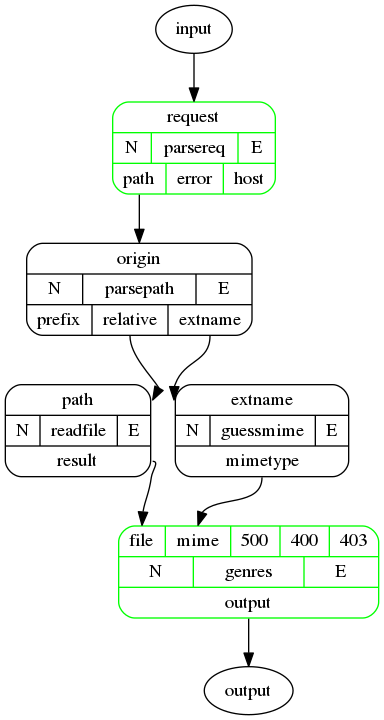
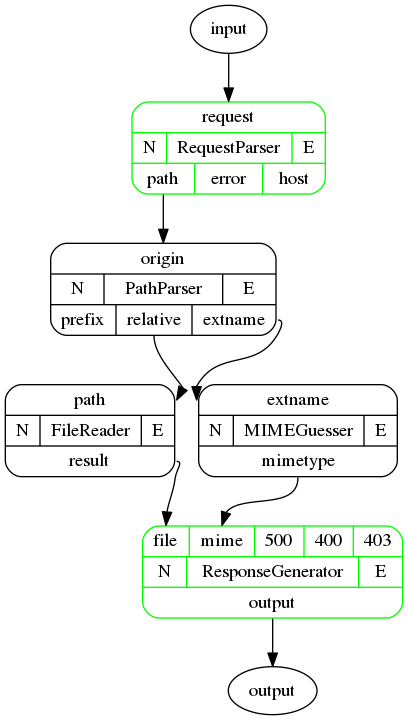
Update the fileserver explaination

diff --git a/src/fileserver/environment/server_files/explained_fileserver_pss.html b/src/fileserver/environment/server_files/explained_fileserver_pss.html
@@ -5,13 +5,26 @@
 		</title> 
 		<style>
 			body {
-				width: 55em;
+				width: 60em;
 				margin: 0 auto;
 				font-family: Tahoma, Verdana, Arial, sans-serif;
+				font-size: 18px;
 			}
 			code {
 			  	display: block;
-			  	white-space: pre-wrap
+			  	white-space: pre-wrap;
+				font-size: 16px;
+				background-color: #eee;
+			}
+			.pss-comment {
+				color: blue;
+				font-style: italic;
+			}
+			.pss-string {
+				color: red;
+			}
+			.pss-variable {
+				font-weight: bold;
 			}
 		</style>
 		<script>
@@ -30,11 +43,84 @@
 					node.appendChild(link);
 					toc.appendChild(node);
 				}
+
+				var codes =  document.getElementsByTagName("code");
+				for(var i = 0; i < codes.length; i ++)
+					codes[i].innerHTML = highlight(codes[i]);
+			}
+			function highlight(element) {
+				var orignal = element.innerText;
+				var transformed = "";
+				var soth = 0;
+				var sstr = 1;
+				var sid  = 2;
+				var scm  = 3;
+				var state = soth;
+				for(var i = 0; i < orignal.length; i ++)
+				{
+					var ch = orignal[i];
+					if(state == soth)
+					{
+						if((ch >= 'a' && ch <= 'z') ||
+						   (ch >= 'A' && ch <= 'Z') ||
+							ch == '_')
+						{
+							transformed += "<span class=\"pss-variable\">" + ch
+							state = sid;
+						}
+						else if(ch == '"')
+						{
+							transformed += "<span class=\"pss-string\">\""
+							state = sstr;
+						}
+						else if(ch == '/')
+						{
+							transformed += "<span class=\"pss-comment\">\/";
+							state = scm;
+						}
+						else transformed += ch;
+					}
+					else if(state == sstr)
+					{
+						if(ch == '\"') 
+						{
+							transformed += "\"</span>"
+							state = soth;
+						}
+						else transformed += ch;
+					}
+					else  if(state == sid)
+					{
+						if((ch >= 'a' && ch <= 'z') ||
+						   (ch >= 'A' && ch <= 'Z') ||
+							ch == '_')
+						{
+							transformed += ch;
+						}
+						else 
+						{
+							transformed += "</span>" + ch
+							state = soth;
+						}
+					}
+					else if(state = scm)
+					{
+						if(ch == '\n') 
+						{
+							transformed += "</span>\n"
+							state = soth;
+						}
+						else transformed += ch;
+					}
+				}
+
+				return transformed.replace(/->/g, "-&gt;");
+
 			}
 		</script>
 	</head>
 	<body>
-		<h1>Static File Server Example (fileserver.pss)</h1>
+		<h1>Static File Server Example (<a href="/fileserver.pss.txt">fileserver.pss</a>)</h1>
 		<ul id="toc">
 		</ul>
 		<h2 class="section">What is it?</h2>
@@ -44,40 +130,60 @@
 		</p>
 		<h2 class="section">How does it work?</h2>
 		<p>
-			The Plumber Service Script uses the PSS interpreter called pscript. When you start the server, you are actually
-			running the pscript interpreter. The interesting part of the script is, the script only initialize the server 
-			which handling the HTTP requests, but itself doesn't handling any request.
+			The Plumber Service Script uses a script interpreter called pscript. When you start the server, you are actually
+			running a script in pscript interpreter. The intersting part of the language is, although Plumber framework is desgined
+			for high performance applications, the script language itself doesn't have any performance optimization.
+			Instead of serving traffic from the network, the script code is responsible build the service you need and launch it. 
 		</p>
 		<p>
-			A service is defined by the service graph literal in the PSS language, and once you run the <em>start</em> statement
-			in the PSS, the service described by the service graph will start serving traffic. Let's look at the service graph 
-			we are current using. (Please note in this graph we ignored all the error handling pipes)
+			In Plumber framework, services are built up with basic build blocks called servlets (Note please distinguish with Java
+			Servlet). Each servlet is a tiny piece of program with one or more input ports and output ports. When a servlet is
+			activated, it reads the input ports and writes the output ports. Plumber framework provides servlets a runtime environment
+			that connects the ports with pipes in a desired way. An application is built up by connecting those servlets into a
+			graph.
 		</p>
-		<center><img src="/service_graph.png" style="width:300px"/></center>
+		<p>
+			The Plumber framework provides a visualization of the service we have made. In the graph, each servlet is represtented by 
+			a node. There's three rows in the servlet node.
+			<center><img src="/servlet_repr.png" style="width:300px"/></center>
+			<ul>
+				<li>First row is the list of input ports</li>
+				<li>The second row has two signal pipe "N" and "E", which we will discuss later, and the name of the servlet</li>
+				<li>The last line is the list of output port</li>
+			</ul>
+			Let's look at the service graph that is currently serving traffic.
+		</p>
+		<center><img src="/service_graph.png" style="width:400px"/></center>
 		<p>
 			The request comes from the input, which can be either port 8080 for HTTP and port 4343 for HTTPS. When the request
-			comes from the network, it will be handled by the node called "parsereq". And the content of the request will be 
-			sent to the pipe endpoint called "request". The servlet produces three output: 
+			comes from network, it will be handled by the request parser. And the content of the request will be 
+			sent to the pipe port called "request". The servlet produces three output: 
 			<ul>
 				<li> <strong>path</strong> The path the client is requesting </li>
-				<li> <strong>host</strong> The host name, which will be used when we enable the virtual hosting </li>
-				<li> <strong>error</strong> Indicates the servlet just got a invalid request</li>
+				<li> <strong>host</strong> (Not in use) The host name, which will be used when we enable the virtual hosting </li>
+				<li> <strong>error</strong> (Not in use) Indicates the servlet just got a invalid request</li>
 			</ul>
 		</p>
 		<p>
-			After we parsed the request, the path the client is requesting will be sent to the path parser and the path parser will
-			produce the relative path and the extension name. The extension name will be sent to the servlet "guessmime", it will 
-			guess the file type based on the extension name. 
+			After the request parser parsed the request, the path the client is requesting will be sent to the path parser. The path 
+			parser will simplify the path and extract the extension name from the original path.
 		</p>
 		<p>
-			On the other hand, the relative path will be sent to the readfile servlet, it will read the file from the disk and sends
-			the result to the response render.
+			The extension name extracted by the path parser will be sent to the MIME guesser to determine which MIME type we should use
+			in the response.
 		</p>
 		<p>
-			Finally, the response render will take the file content and mime type information and render a HTTP response and write
-			to the network.
+			On the other hand, the relative path will be sent to the file reader, and the reader reads the file from the disk and sends
+			the read result to the response generator.
 		</p>
-		<h2 class="section">How is the graph Created?</h2>
+		<p>
+			Finally, the response generator takes the file content and type information and produce a HTTP response to the client. 
+		</p>
+		<h2 class="section">How is the graph created?</h2>
+		<p>
+			A service is defined by the service graph literal in the PSS language, and once you run the <em>start</em> statement
+			in the PSS, the service described by the service graph will start serving traffic. 		
+		</p>
 		<p>
 			As we previously said, it's created by the service graph literal in the Plumber Service Script language. The service literal
 			is a simple domain specific language used to connect different servlet into a service graph. It is wrapped with a pair of curly
@@ -85,7 +191,7 @@
 		</p>
 		<p>
 			<code>	service_graph = { 
-		/* Your service definition comes here */ 
+		// Your service definition comes here
 	}</code>
 		</p>
 		<p>
@@ -111,8 +217,8 @@
 			pipe definition. For example
 			<p>
 				<code>	nodeA "output" -&gt; "input" nodeB "output" -&gt; "input" nodeC;</code>
-			</p>
 			means 
+			</p>
 			<p>
 				<code>	nodeA "output" -&gt; "input" nodeB;
 	nodeB "output" -&gt; "input" nodeC; </code>
@@ -125,20 +231,20 @@
 		"output1" -&gt; "input" nodeB;
 		"output2" -&gt; "input" nodeC;
 	}</code>
-			</p>
 			means
+			</p>
 			<p>
 				<code>	nodeA "output1" -&gt; "input" nodeB;
 	nodeA "output2" -&gt; "input" nodeC;</code>
-			</p>
 			In fact we can do it for either input pipe or output pipes or both, for example:
+			</p>
 			<p>
 				<code>	nodeA {
 		"output1" -&gt; "input1";
 		"output2" -&gt; "input2";
 	} nodeB;</code>
-			</p>
 			means
+			</p>
 			<p>
 				<code>	nodeA "output1" -&gt; "input1" nodeB;
 	nodeA "output2" -&gt; "input2" nodeB;</code>
@@ -150,19 +256,20 @@
 		<p>
 			<code>	file_server = {
 		// Definition of the nodes we need to use
-		parsereq   := "parsereq";
-		parsepath  := "filesystem/parsepath --ext-name";
-		readfile   := "filesystem/readfile ./environment/server_files";
-		guessmime  := "filesystem/mime ./environment/mime.types";
-		genres     := "genres";
+		RequestParser     := "parsereq";
+		PathParser        := "filesystem/parsepath --ext-name";
+		FileReader        := "filesystem/readfile ./environment/server_files";
+		MIMEGuesser       := "filesystem/mime ./environment/mime.types";
+		ResponseGenerator := "genres";
 
 		// Definition of the interconnections
-		() -&gt; "request" parsereq "path" -&gt; "origin" parsepath {
-				"relative" -&gt; "path" readfile "result" -&gt; "file";
-				"extname" -&gt; "extname" guessmime "mimetype" -&gt; "mime";
-		} genres "output" -&gt; ();
+		() -&gt; "request" ResponseGenerator "path" -&gt; "origin" PathParser {
+				"relative" -&gt; "path" FileReader "result" -&gt; "file";
+				"extname" -&gt; "extname" MIMEGuesser "mimetype" -&gt; "mime";
+		} ResponseGenerator "output" -&gt; ();
 	}</code>
 		</p>
+		<center><img src="/service_graph.png" style="width:400px"/></center>
 		<h2 class="section">Adding error handling to the service</h2>
 		<p>	
 			Here's one more question remaining, what if the server is error. Actually, the 404 error is handled by read file. However
@@ -174,13 +281,13 @@
 			define a pipe called "__error__" for every servlet, and it will be empty if the servlet runs sucessfully. However, it will be written
 			by the framework whenever the servlet returns an error code. So handling the servlet failure is quite simple in this way. 
 			<p>
-				<code>	error := "dataflow/firstnonempty 4";
+				<code>	ErrorCombiner := "dataflow/firstnonempty 4";
 	{
-		parsereq  "__error__" -&gt; "in0";
-		parsepath "__error__" -&gt; "in1";
-		readfile  "__error__" -&gt; "in2";
-		guessmime "__error__" -&gt; "in3";
-	} error "out" -&gt; "500" genres; </code>
+		RequestParser  "__error__" -&gt; "in0";
+		PathParser     "__error__" -&gt; "in1";
+		FileReader     "__error__" -&gt; "in2";
+		MIMEGuesser    "__error__" -&gt; "in3";
+	} ErrorCombiner "out" -&gt; "500" ResponseGenerator; </code>
 			</p>
 			<p>
 				You may ask what if the "error" node or "genres" node failed to run? The answer is, consider a normal HTTP server, if there's some
@@ -193,13 +300,13 @@
 			by the servlet. In our example, when the "parsepath" node reject to serve the request, "__null__" pipe will be activated. In this case,
 			we should return a forbiden response.
 			<p>
-				<code>	parsepath "__null__" -&gt; "403" genres;</code>
+				<code>	PathParser "__null__" -&gt; "403" ResponseGenerator;</code>
 			</p>
 			<p>
 			Finally, let's think about what if the server gets a malformed HTTP request from network. In this case, the "error" pipe of "parsereq" will
 			have some output, and we should let the response render know about this and produce a bad request response.
 			<p>
-				<code>	parseres "error" -&gt; "400" genres;</code>
+				<code>	RequestParser "error" -&gt; "400" ResponseGenerator;</code>
 			</p>
 		</p>
 		<h2 class="section">How does our server listening to the outside</h2>
